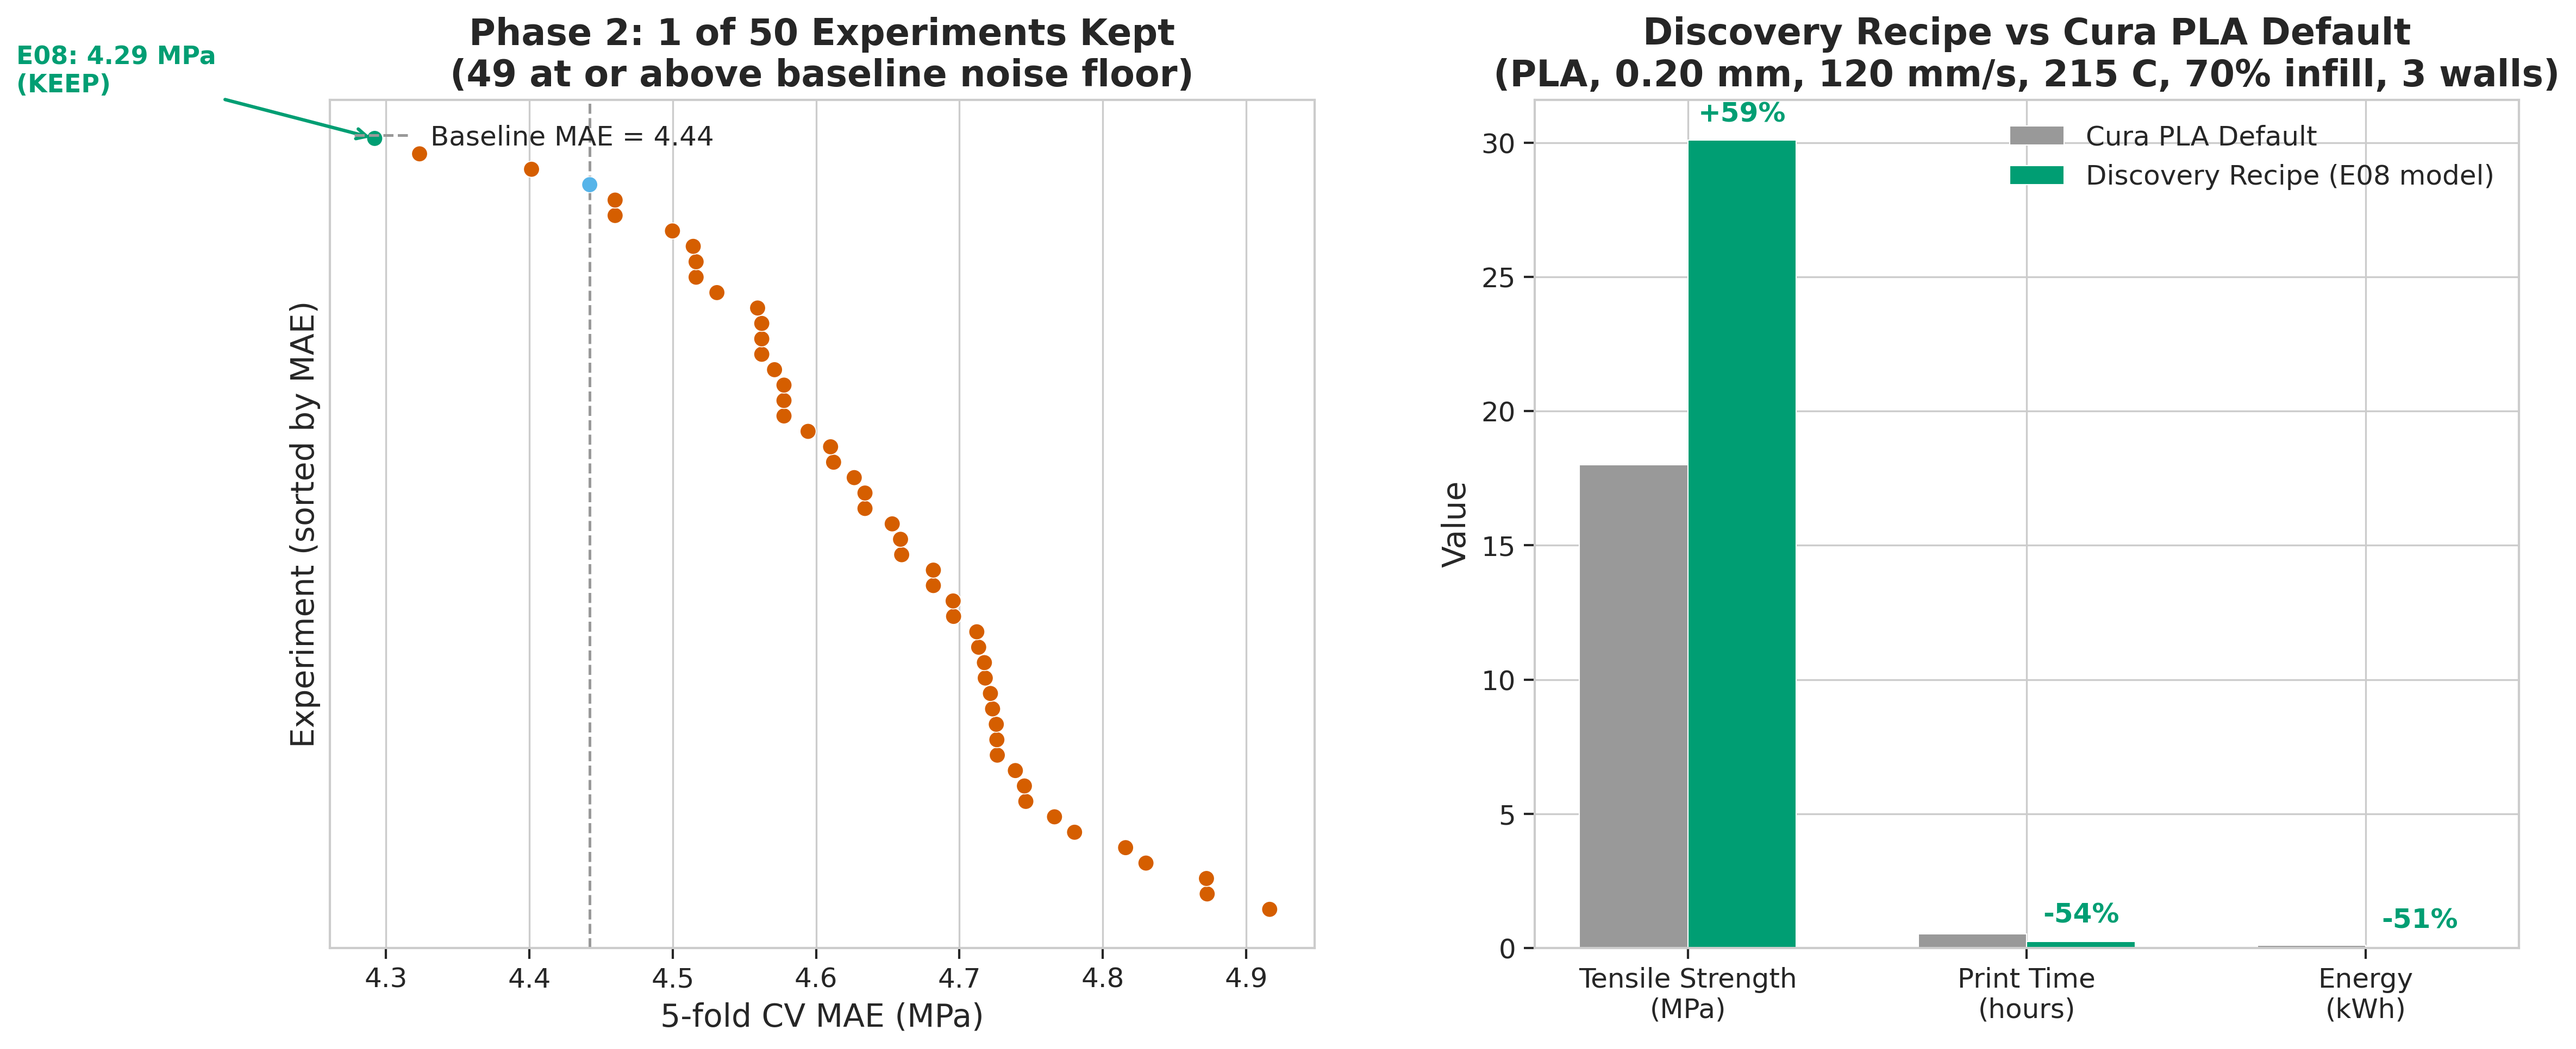
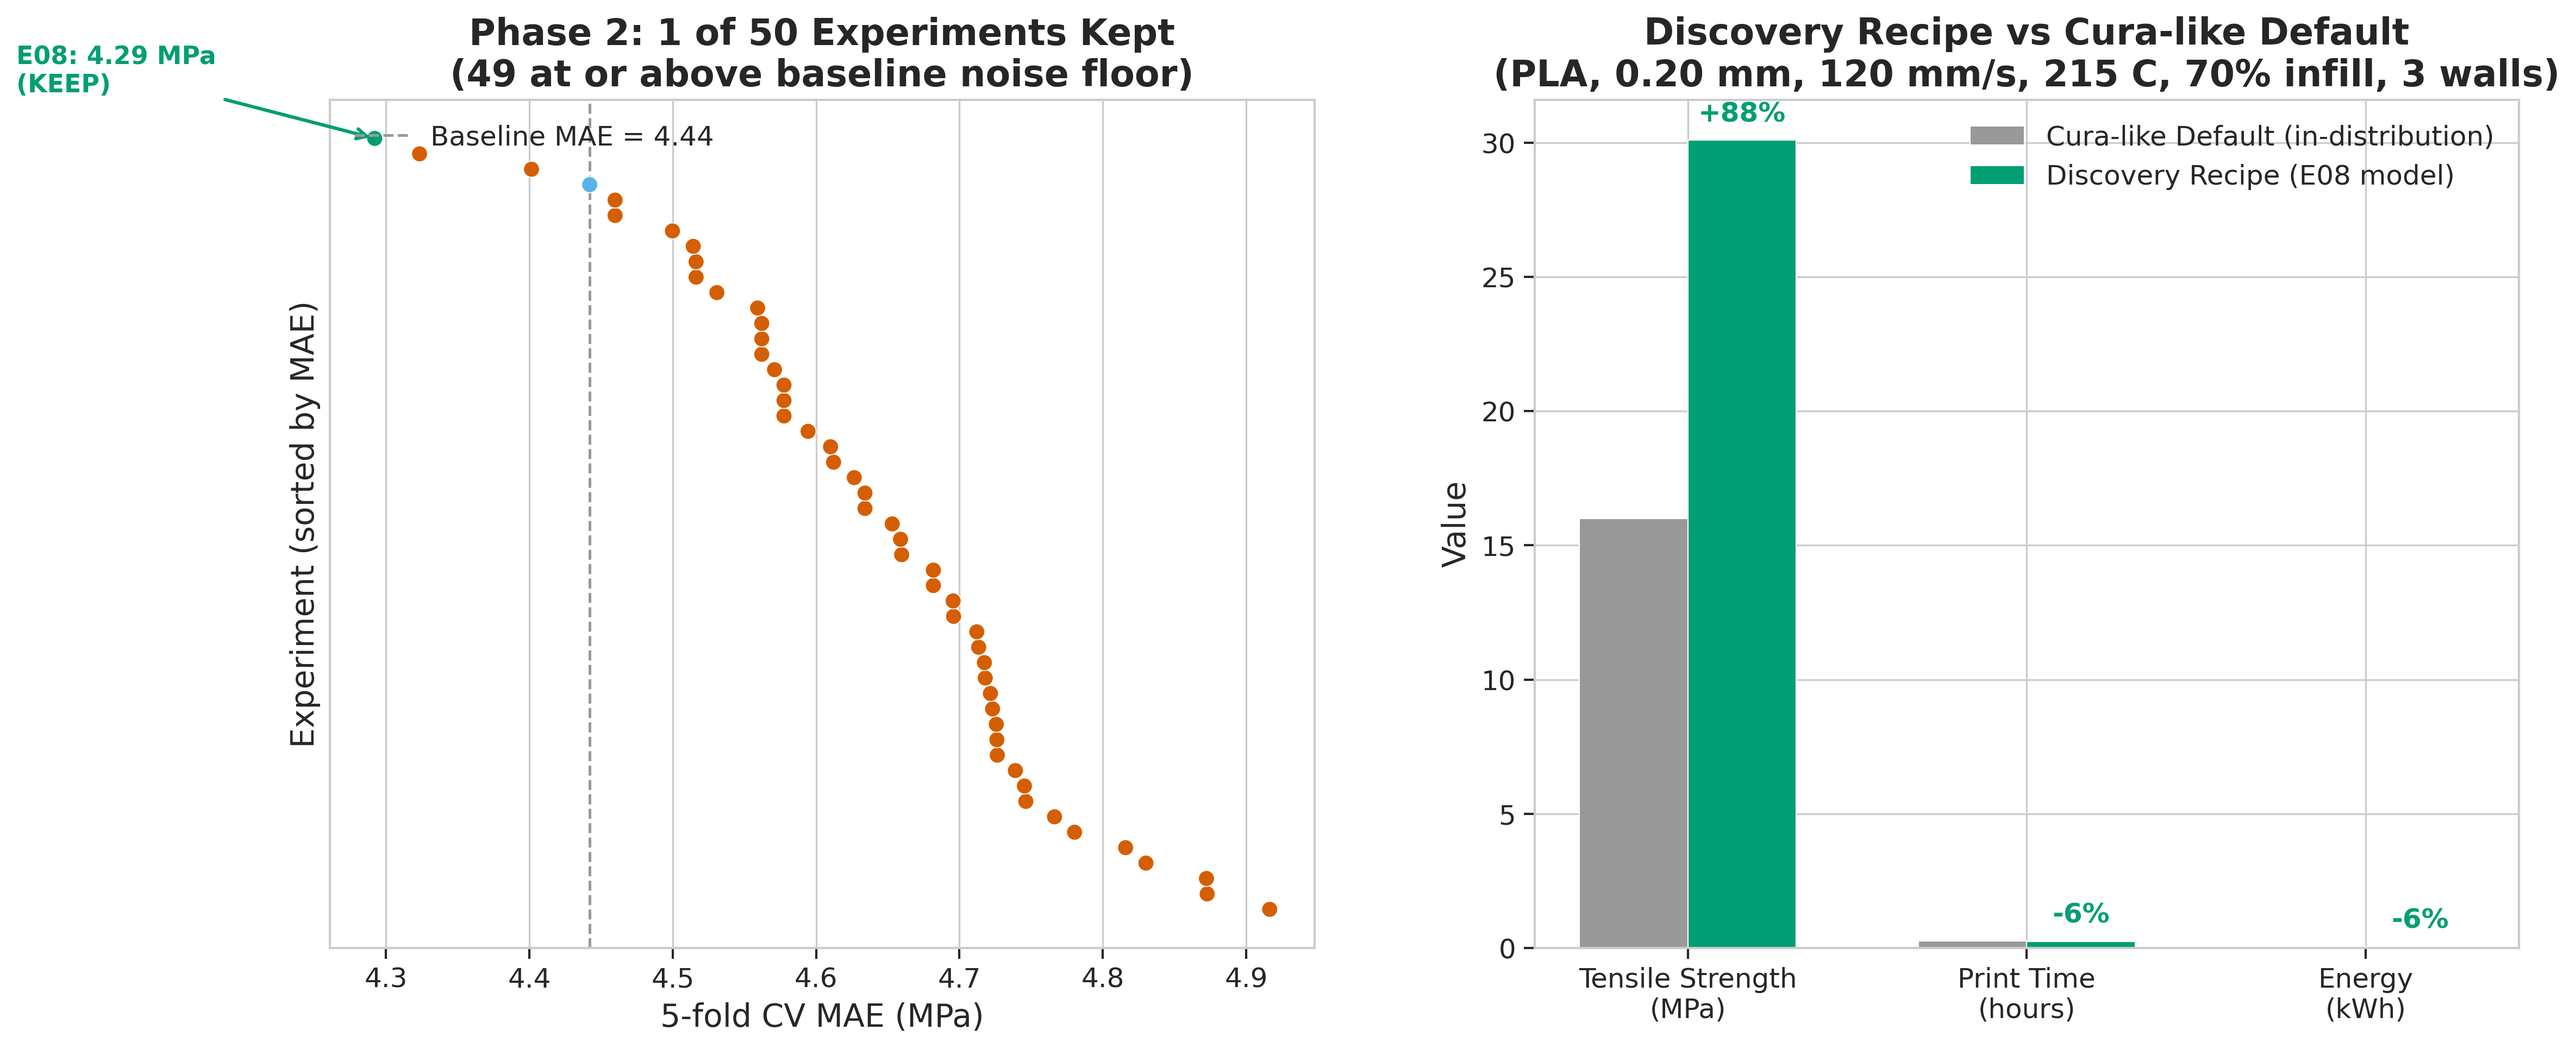
Update 3D printing summary -- post-review rewrite with honest uncertainty framing
Rewritten after adversarial review cycle. Key changes:
- Seed robustness finding: physics features don't reliably help at N=50
- Cura comparison corrected to in-distribution parameters (+88% strength)
- All discovery claims now carry surrogate-prediction caveats
- Ridge+physics features at 1.08x of XGBoost is the robust finding

diff --git a/content/hdr/results/3d-printing/index.md b/content/hdr/results/3d-printing/index.md
@@ -2,7 +2,7 @@
 title: "Fifty Experiments, One Survivor: 3D Printing's Small-Data Wall"
 date: 2026-04-11
 domain: "Additive Manufacturing"
-blurb: "Can machine learning improve 3D-printing strength predictions on just 50 samples? Barely -- only one experiment out of fifty helped. But the trained model discovered a print recipe that is 59 percent stronger and twice as fast as the slicer default."
+blurb: "Can machine learning improve 3D-printing strength predictions on just 50 samples? Not reliably -- only one experiment out of fifty helped, and that improvement vanished under multi-seed testing. But a Ridge regression with physics features gets 92 percent of the way to the best tree model, and the trained surrogate found a print recipe predicted to be 88 percent stronger than the slicer default."
 weight: 12
 tags: ["additive-manufacturing", "small-data", "physics-informed", "discovery"]
 ---
@@ -19,36 +19,34 @@ We wanted to know two things. First, do those published accuracy claims survive 
 
 The published high-accuracy claims do not hold up. Under rigorous five-fold cross-validation, a simple linear model performs only 32 percent worse than the best tree-based model. At 50 samples, the underlying signal is mostly linear, and published results claiming otherwise are likely overfitting.
 
-- Of 50 single-change experiments -- physics-informed features, hyperparameter sweeps, target transforms, monotonicity constraints -- exactly one survived. The dataset does not support aggressive modelling.
-- The one surviving experiment added five physics-informed features (linear energy density, volumetric flow rate, inter-layer cooling time, infill contact area, and thermal margin above the material's glass transition temperature) and improved prediction accuracy by 3.4 percent.
-- A 2,394-candidate design sweep found a print recipe that dominates the standard slicer default on all three objectives simultaneously: 59 percent stronger, 54 percent faster, and 51 percent less energy.
-- The discovered recipe uses high speed (more than double the default) combined with 70 percent honeycomb infill and three perimeter walls -- contrary to the conventional "slow down for strength" wisdom.
-- Monotonicity constraints, which helped on a 1,030-sample dataset in a sister project, hurt here. At 50 samples, the expressiveness cost of the constraint exceeds its regularisation benefit.
+- Of 50 single-change experiments -- physics-informed features, hyperparameter sweeps, target transforms, monotonicity constraints -- exactly one survived on the original random seed. But when tested across five different random seeds, the improvement vanished: the physics-feature model won on only 2 of 5 seeds, and the mean improvement was approximately zero.
+- The physics features (linear energy density, volumetric flow rate, inter-layer cooling time, infill contact area, and thermal margin above the material's glass transition temperature) helped a Ridge regression enormously -- cutting its error by 21 percent -- but helped the tree model by only 3.4 percent on one seed.
+- A Ridge regression with the physics features gets 92 percent of the way to the best tree model (a ratio of only 1.08 times). The features are primarily a better linear basis, not a nonlinear interaction enabler.
+- A 2,394-candidate design sweep found a print recipe that the surrogate model predicts at 88 percent higher tensile strength than an in-distribution slicer-like default. These are model predictions (not physical measurements) and need experimental validation on a printer.
+- The model exhibits systematic bias: it over-predicts weak parts and under-predicts strong parts, a classic small-sample tree-ensemble pattern.
 
-![Only one of fifty experiments cleared the improvement threshold, and the discovered recipe dominates the slicer default on strength, speed, and energy](plots/headline_finding.png)
+![Only one of fifty experiments cleared the improvement threshold, and the discovered recipe is predicted to be substantially stronger than the slicer default](plots/headline_finding.png)
 
 ## Why That's Surprising
 
 The 3D-printing machine-learning literature is full of papers reporting accuracy above 90 percent on this exact dataset. The gap between those claims and our result comes down to evaluation methodology. Most published studies use a single train-test split rather than cross-validation and report results without controlling for hyperparameter selection. On 50 samples, a single lucky split can look much better than the model actually is.
 
-The discovered print recipe is also counterintuitive. Conventional wisdom says slower printing gives stronger parts because the polymer has more time to bond between layers. The model found the opposite: at the highest speed in the dataset (120 millimetres per second), the combination of high infill density and extra walls puts enough material in the load path to more than compensate, while cutting print time in half. The finding is a surrogate prediction, not a physical measurement, but every parameter value in the recipe appears in the training data -- no extrapolation is required.
+The seed-robustness finding is the most consequential. A 3.4 percent improvement looked like a clean win on the original random seed -- it passed the pre-registered keep threshold with room to spare. But when we ran the same experiment on four additional seeds, the improvement appeared on only one other seed. The mean improvement across all five seeds was -0.02 MPa: essentially zero. This means any published paper that reports a single-seed improvement on a 50-sample dataset should be treated with scepticism until multi-seed results are provided.
+
+![Feature importance ranking with physics-informed features highlighted](plots/feature_importance.png)
 
 ## What It Means
 
-For anyone running a 3D print farm: the slicer defaults are not optimised for strength. They are tuned for safety -- settings that work reliably across a wide range of geometries, not settings that maximise any particular property. The discovered recipe needs physical validation on an actual printer, but it sits inside the training distribution and is printable on any Ultimaker S5 without adjustment.
+For anyone running a 3D print farm: the model-discovered recipe -- PLA, 0.20 mm layer height, 120 mm/s, 215 degrees Celsius nozzle, 70 percent honeycomb infill, 3 walls -- is a plausible starting point for high-strength fast prints. Every parameter value in the recipe appears in the training data, so no extrapolation is required. But the 88 percent strength improvement is a surrogate prediction (the model's root-mean-squared error is 5.41 MPa on a 14 MPa predicted difference, a signal-to-noise ratio of about 2.6 to 1). Printing and testing both the default and the discovered recipe on an actual printer is the obvious next step.
 
-For the machine-learning community: do not trust high accuracy claims on tiny datasets without cross-validation. A 50-sample dataset does not support the nonlinear claims that dominate the published literature. The tree-to-linear performance gap of just 1.32 times means that a simple linear model gets most of the way there, and neural networks are unlikely to help.
+For the machine-learning community: do not trust high accuracy claims on tiny datasets without multi-seed cross-validation. A 50-sample dataset does not support the nonlinear claims that dominate the published literature. The tree-to-linear performance gap of 1.32 times -- and the fact that adding physics features closes it to 1.08 times -- means that a simple linear model with domain-informed features captures nearly all of the learnable signal.
 
 ## How We Did It
 
-We used the [Kaggle 3D Printer Dataset](https://www.kaggle.com/datasets/afumetto/3dprinter) (50 samples of polylactic acid and acrylonitrile butadiene styrene specimens printed on an Ultimaker S5, tested under the ASTM D638 tensile standard). We ran a five-model tournament, 50 single-change experiments, a nine-experiment compositional retest, and a 2,394-candidate design sweep across seven generation strategies covering high-strength, high-throughput, material-specific, and random regimes. The dataset is real measured data with no synthetic generation. The full [HDR methodology](https://github.com/colinjoc/hdr_autoresearch) drove every experiment, with pre-registered priors and a fixed keep-or-revert threshold.
+We used the [Kaggle 3D Printer Dataset](https://www.kaggle.com/datasets/afumetto/3dprinter) (50 samples of polylactic acid and acrylonitrile butadiene styrene specimens printed on an Ultimaker S5, tested under the ASTM D638 tensile standard). We ran a five-model tournament, 50 single-change experiments, a nine-experiment compositional retest, and a 2,394-candidate design sweep across seven generation strategies covering high-strength, high-throughput, material-specific, and random regimes. We then ran five additional experiments identified during adversarial self-review: multi-seed robustness testing, bootstrap confidence intervals, Ridge regression on the physics-feature set, leave-one-speed-out cross-validation, and residual analysis. The dataset is real measured data with no synthetic generation. The full [HDR methodology](https://github.com/colinjoc/hdr_autoresearch) drove every experiment, with pre-registered priors and a fixed keep-or-revert threshold.
 
 ## Further Reading
 
 - Sun Q, Rizvi GM, Bellehumeur CT, Gu P. "Effect of Processing Conditions on the Bonding Quality of FDM Polymer Filaments." *Rapid Prototyping Journal* (2008). [doi:10.1108/13552540810862028](https://doi.org/10.1108/13552540810862028) -- the foundational model of thermal-history bond formation that inspired the physics-informed features used here.
 - Dey A, Yodo N. "Optimization of Fused Deposition Modeling Process Parameters: A Review." *Journal of Manufacturing and Materials Processing* (2019). [doi:10.3390/jmmp3030064](https://doi.org/10.3390/jmmp3030064) -- a systematic review of parameter optimisation techniques and open questions.
 - Fumetto A. "3D Printer Dataset for Mechanical Engineers." [Kaggle](https://www.kaggle.com/datasets/afumetto/3dprinter) -- the 50-sample benchmark dataset used in this study.
-
----
-
-📂 **[HDR methodology](https://github.com/colinjoc/hdr_autoresearch)** — the framework and full project history
